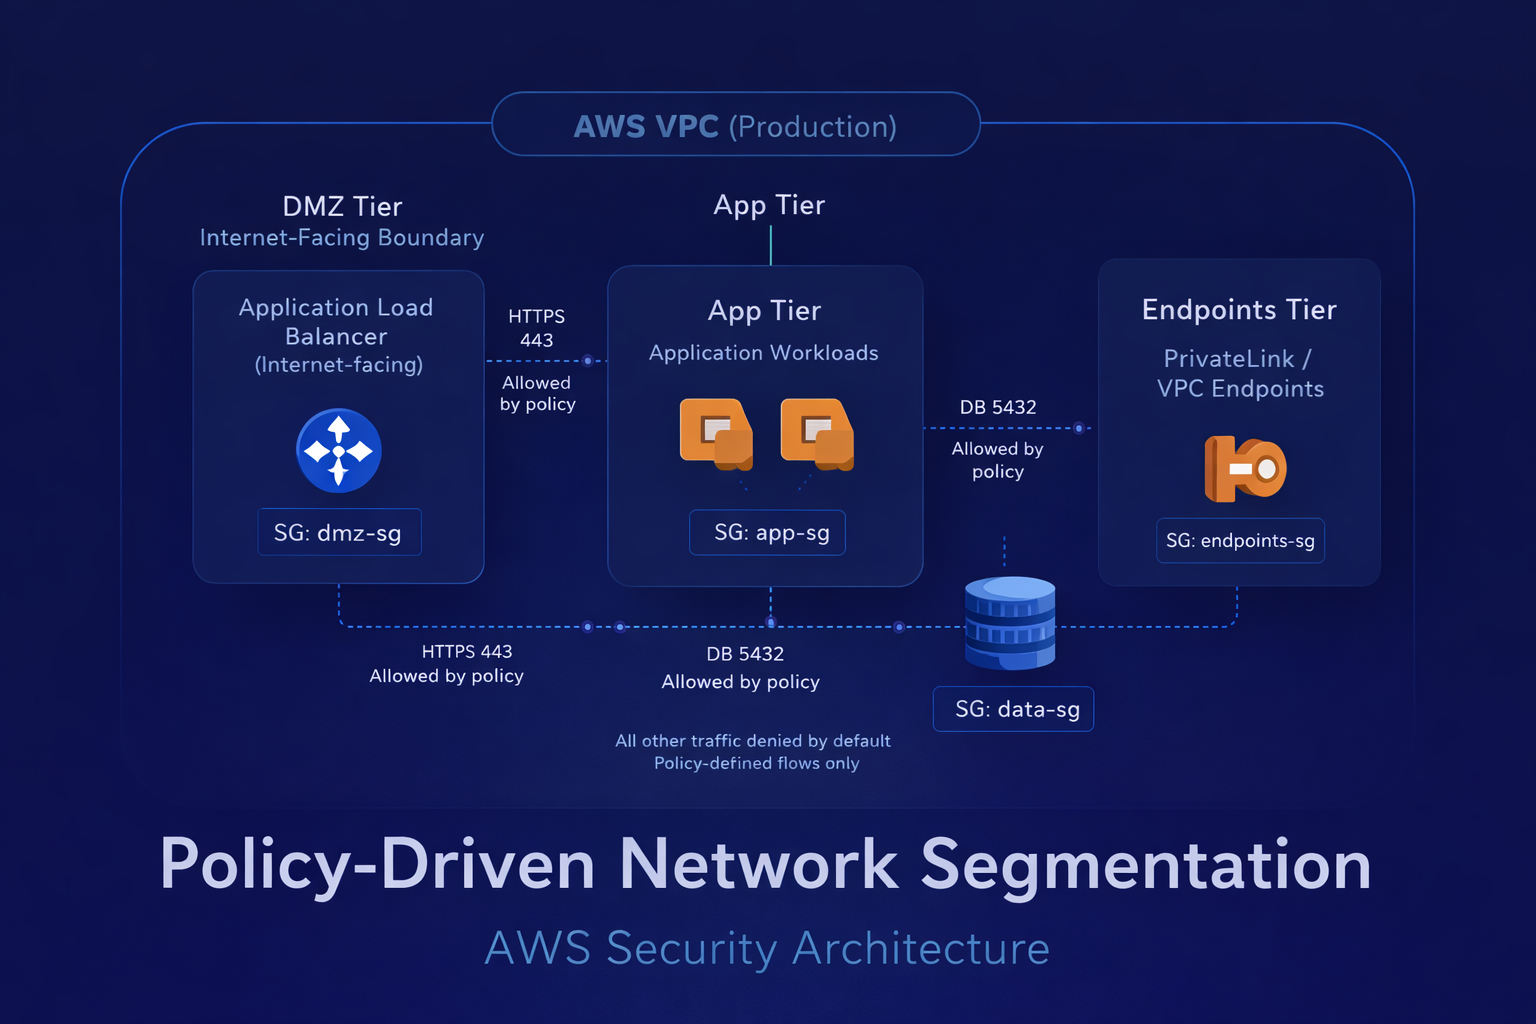
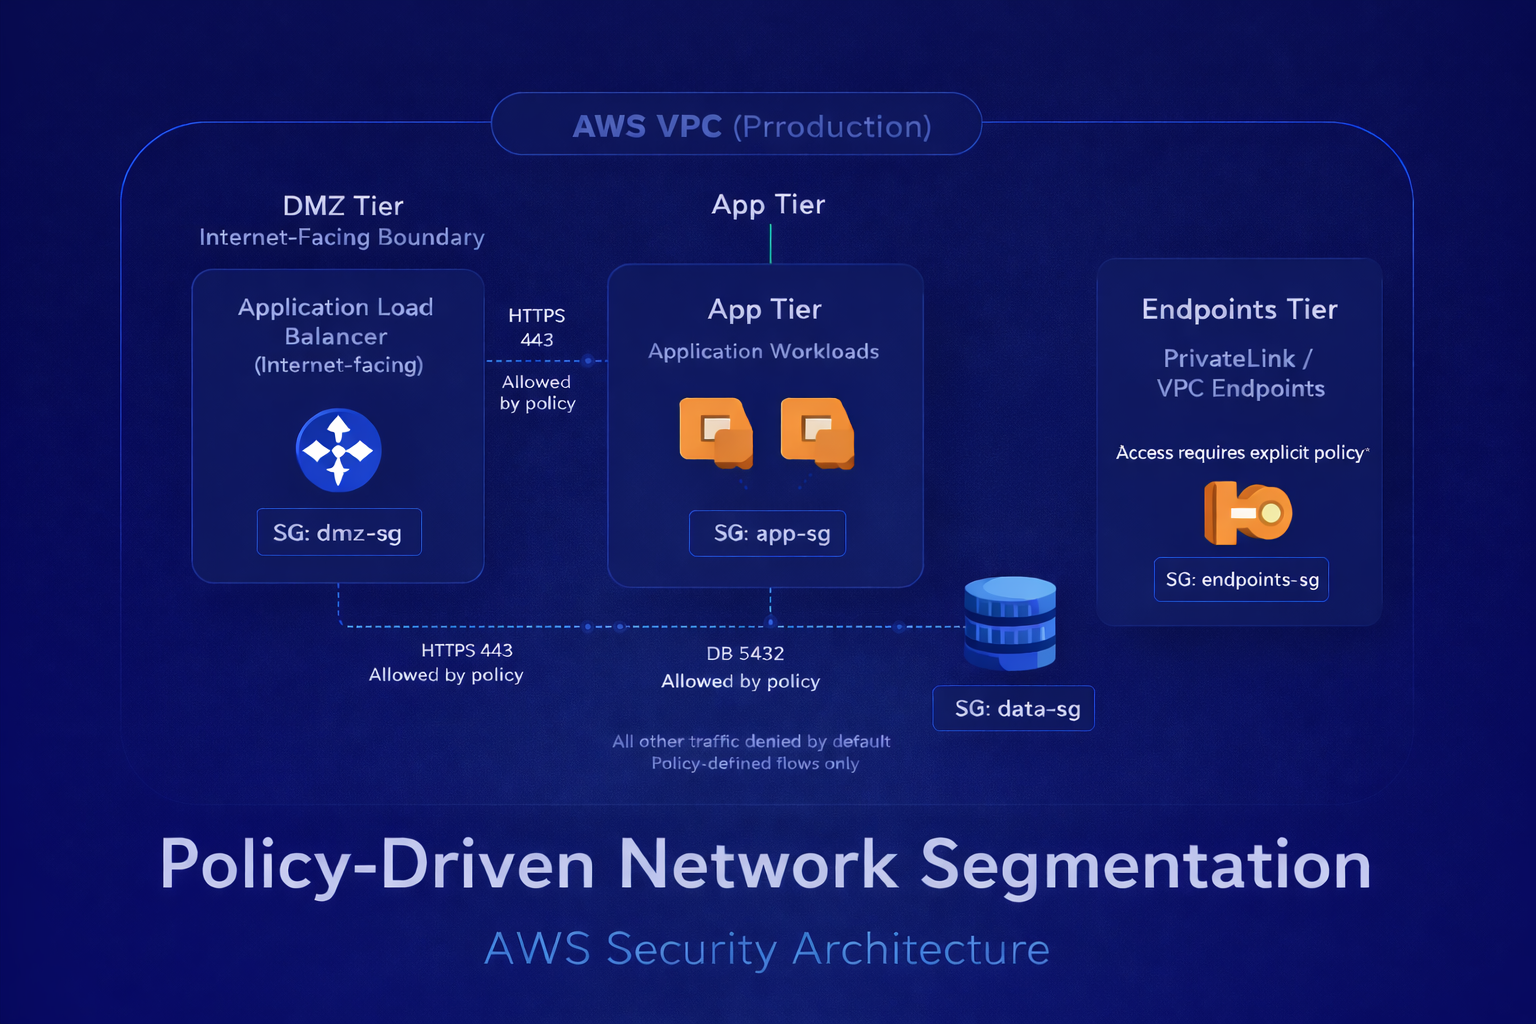
Update .gitignore and README for clarity; add log files for policy generation and validation

diff --git a/README.md b/README.md
@@ -78,8 +78,8 @@ flowchart TB
     DMZ["DMZ Tier<br/>Application Load Balancer<br/>Internet-facing entry point<br/><br/>SG: dmz-sg"]
     APP["App Tier<br/>EC2 / ECS workloads<br/><br/>SG: app-sg"]
     DATA["Data Tier<br/>RDS / Datastores<br/><br/>SG: data-sg"]
-    EP["Endpoints Tier<br/>VPC Endpoints / PrivateLink<br/><br/>SG: endpoints-sg"]
-
+    EP["Endpoints Tier<br/>VPC Endpoints / PrivateLink<br/><br/>SG: endpoints-sg<br/><br/><i>No flows defined yet</i>"]
+        
     Internet -->|HTTPS 443| DMZ
     DMZ -->|HTTPS 443| APP
     DMZ -->|HTTP 80| APP
@@ -89,6 +89,7 @@ flowchart TB
 
 *All network traffic is deny-by-default and only permitted when explicitly defined in policy and enforced through security group–to–security group rules.*
 
+**Note**: The Endpoints tier is shown without connections because no policy-approved flows currently exist. Access must be explicitly declared in policy before being permitted.
 
 ---
 
@@ -142,6 +143,8 @@ Invalid policies **do not generate Terraform.**
 This prevents insecure changes from reaching AWS.
 
 ## Automation Flow
+
+```text
 segmentation-policy.yaml
         ↓
 validate + enforce guardrails
@@ -151,6 +154,7 @@ generate_sg_rules.py
 policy.auto.tfvars.json
         ↓
 Terraform security group modules
+```
 
 The automation **does not create infrastructure**.  
 It only generates inputs that Terraform consumes.
